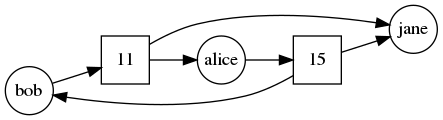
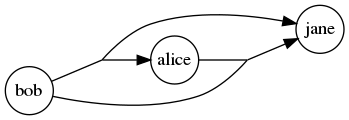
draw better hyperedges.

Changed region(s): [[0.2865, 0.025, 1.0, 0.9], [0.0, 0.1, 0.7163, 0.975], [0.3725, 0.275, 0.5731, 0.725]]

diff --git a/graphony/relation.py b/graphony/relation.py
@@ -1,5 +1,7 @@
 """Relation objects.
 """
+from functools import total_ordering
+
 from pygraphblas import Matrix, BOOL, INT64
 from pygraphblas.gviz import draw_graph
 
@@ -7,6 +9,7 @@ from .edge import Edge, Hedge
 from .node import Node
 
 
+@total_ordering
 class Relation:
     """
     Relation object.
@@ -74,6 +77,9 @@ class Relation:
         else:
             return draw_graph(self.A, **kwargs)
 
+    def __lt__(self, other):
+        return self.rid < other.rid
+
     def __iadd__(self, relation):
         if isinstance(relation, tuple):
             self.add(*relation)
@@ -97,13 +103,11 @@ class Relation:
             AT = self.A.T
             for eid in AT.rows:
                 sids = list(AT[eid].indices)
-                _dids = self.B[eid]
-                dids = list(_dids.indices)
-                weights = list(_dids.vals)
-                yield Hedge(self.graph, self.rid, sids, dids, weights, eid)
+                dids = self.B[eid]
+                yield Hedge(self, sids, list(dids.indices), list(dids.vals), eid)
         else:
             for sid, did, weight in self.A:
-                yield Edge(self.graph, self.rid, sid, did, weight)
+                yield Edge(self, sid, did, weight)
 
     def __len__(self):
         return self.B.nvals if self.incidence else self.A.nvals
@@ -128,7 +132,7 @@ class Relation:
                     dids = list(_dids.indices)
                     weights = list(_dids.vals)
                     sids = list(AT[eid].indices)
-                    yield Hedge(self.graph, self.rid, sids, dids, weights, eid)
+                    yield Hedge(self, sids, dids, weights, eid)
             elif isinstance(sid, slice):
                 BT = self.B.T
                 eids = BT[did]
@@ -136,7 +140,7 @@ class Relation:
                 for eid, _ in eids:
                     sids = list(AT[eid].indices)
                     dids = list(self.B[eid].indices)
-                    yield Hedge(self.graph, self.rid, sids, dids, weights, eid)
+                    yield Hedge(self, sids, dids, weights, eid)
             else:
                 BT = self.B.T
                 deids = BT[did]
@@ -147,14 +151,14 @@ class Relation:
                     _dids = self.B[eid]
                     dids = list(_dids.indices)
                     weights = list(_dids.vals)
-                    yield Hedge(self.graph, self.rid, sids, dids, weights, eid)
+                    yield Hedge(self, sids, dids, weights, eid)
 
         else:
             if isinstance(did, slice):
                 for did, weight in self.A[sid]:
-                    yield Edge(self.graph, self.rid, sid, did, weight)
+                    yield Edge(self, sid, did, weight)
             elif isinstance(sid, slice):
                 for sid, weight in self.A[:, did]:
-                    yield Edge(self.graph, self.rid, sid, did, weight)
+                    yield Edge(self, sid, did, weight)
             else:
-                yield Edge(self.graph, self.rid, sid, did, self.a[sid, did])
+                yield Edge(self, sid, did, self.a[sid, did])

diff --git a/graphony/tests/test_README.py b/graphony/tests/test_README.py
@@ -24,7 +24,7 @@ def _phm_setup_doctest_teardown(doctest_namespace, managenamespace):
     for k, v in additions.items():
         doctest_namespace[k] = v
     yield
-    # teardown code line 319.
+    # teardown code line 321.
     postgresql.teardown(pgdata)
 
     managenamespace(operation="clear")
@@ -89,7 +89,7 @@ def session_00005_line_158():
 def session_00006_line_171():
     r"""
     >>> G.add_relation('coworker', incidence=True)
-    >>> G.coworker += [('bob', ('jane', 'alice')), ('alice', ('bob', 'jane'))]
+    >>> G.coworker += [('bob', ('jane', 'alice')), (('alice', 'bob'), 'jane')]
     >>> G.coworker.draw(weights=False, filename='docs/imgs/G_coworker_1')
     <graphviz.dot.Digraph object at ...>
     """
@@ -112,7 +112,7 @@ def session_00008_line_195():
      friend(alice, jane),
      friend(alice, rick),
      coworker((bob), (alice, jane), (True, True)),
-     coworker((alice), (bob, jane), (True, True)),
+     coworker((bob, alice), (jane), (True, True)),
      distance(bob, alice, 422),
      distance(alice, jane, 42)]
     """
@@ -135,32 +135,34 @@ def session_00010_line_219():
     [friend(bob, alice),
      friend(bob, sal),
      coworker((bob), (alice, jane), (True, True)),
+     coworker((bob, alice), (jane), (True, True)),
      distance(bob, alice, 422)]
     """
 
 
-def session_00011_line_229():
+def session_00011_line_230():
     r"""
     >>> p(G(relation='coworker'))
     [coworker((bob), (alice, jane), (True, True)),
-     coworker((alice), (bob, jane), (True, True))]
+     coworker((bob, alice), (jane), (True, True))]
 
     """
 
 
-def session_00012_line_238():
+def session_00012_line_239():
     r"""
     >>> p(G(destination='jane'))
     [friend(alice, jane),
      coworker((bob), (alice, jane), (True, True)),
-     coworker((alice), (bob, jane), (True, True)),
+     coworker((bob, alice), (jane), (True, True)),
      distance(alice, jane, 42)]
     >>> p(G(source='bob', relation='coworker', destination='jane'))
-    [coworker((bob), (alice, jane), (True, True))]
+    [coworker((bob), (alice, jane), (True, True)), 
+     coworker((bob, alice), (jane), (True, True))]
     """
 
 
-def session_00013_line_252():
+def session_00013_line_254():
     r"""
     >>> G.friend
     <Adjacency friend BOOL:4>
@@ -170,7 +172,7 @@ def session_00013_line_252():
     """
 
 
-def session_00014_line_284():
+def session_00014_line_286():
     r"""
     >>> G.add_relation('karate')
     >>> G.karate += G.sql(
@@ -182,14 +184,14 @@ def session_00014_line_284():
     """
 
 
-def session_00015_line_298():
+def session_00015_line_300():
     r"""
     >>> len(G.karate)
     78
     """
 
 
-def session_00016_line_302():
+def session_00016_line_304():
     r"""
     >>> G
     <Graph [friend, coworker, distance, karate]: 88>

diff --git a/graphony/edge.py b/graphony/edge.py
@@ -7,8 +7,7 @@ from .node import Node
 class Edge(NamedTuple):
     """A simple Edge between one source and one destination node."""
 
-    graph: object
-    rid: int
+    relation: object
     sid: int
     did: int
     weight: object = True
@@ -22,19 +21,14 @@ class Edge(NamedTuple):
         return f"{self.relation.name}({self.source}, {self.destination}{weight})"
 
     @property
-    def relation(self):
-        """Return edge relation."""
-        return self.graph.relations[self.rid]
-
-    @property
     def source(self):
         """Return edge source."""
-        return Node(self.graph, self.sid)
+        return Node(self.relation.graph, self.sid)
 
     @property
     def destination(self):
         """Return edge destination"""
-        return Node(self.graph, self.did)
+        return Node(self.relation.graph, self.did)
 
 
 class Hedge(NamedTuple):
@@ -43,8 +37,7 @@ class Hedge(NamedTuple):
 
     """
 
-    graph: object
-    rid: int
+    relation: object
     sids: List[int]
     dids: List[int]
     weights: List[object] = None
@@ -57,16 +50,13 @@ class Hedge(NamedTuple):
         return f"{self.relation.name}(({sources}), ({destinations}), ({weights}))"
 
     @property
-    def relation(self):
-        """Return edge relation."""
-        return self.graph.relations[self.rid]
-
-    @property
     def sources(self):
         """Return edge sources."""
-        return [Node(self.graph, sid) for sid in self.sids]
+        g = self.relation.graph
+        return [Node(g, sid) for sid in self.sids]
 
     @property
     def destinations(self):
         """Return edge destinations."""
-        return [Node(self.graph, did) for did in self.dids]
+        g = self.relation.graph
+        return [Node(g, did) for did in self.dids]

diff --git a/README.md b/README.md
@@ -169,7 +169,7 @@ To create edges of a certain type, 4 elements can be provided:
 
 ```python3
 >>> G.add_relation('coworker', incidence=True)
->>> G.coworker += [('bob', ('jane', 'alice')), ('alice', ('bob', 'jane'))]
+>>> G.coworker += [('bob', ('jane', 'alice')), (('alice', 'bob'), 'jane')]
 >>> G.coworker.draw(weights=False, filename='docs/imgs/G_coworker_1')
 <graphviz.dot.Digraph object at ...>
 ```
@@ -198,7 +198,7 @@ acts as a wildcard to matches all values.
  friend(alice, jane),
  friend(alice, rick),
  coworker((bob), (alice, jane), (True, True)),
- coworker((alice), (bob, jane), (True, True)),
+ coworker((bob, alice), (jane), (True, True)),
  distance(bob, alice, 422),
  distance(alice, jane, 42)]
 ```
@@ -220,6 +220,7 @@ Only print relations where `bob` is the src:
 [friend(bob, alice),
  friend(bob, sal),
  coworker((bob), (alice, jane), (True, True)),
+ coworker((bob, alice), (jane), (True, True)),
  distance(bob, alice, 422)]
 ```
 
@@ -228,7 +229,7 @@ Only print relations where `coworker` is the relation:
 ```python3
 >>> p(G(relation='coworker'))
 [coworker((bob), (alice, jane), (True, True)),
- coworker((alice), (bob, jane), (True, True))]
+ coworker((bob, alice), (jane), (True, True))]
 
 ```
 
@@ -238,10 +239,11 @@ Only print relations where `jane` is the dest:
 >>> p(G(destination='jane'))
 [friend(alice, jane),
  coworker((bob), (alice, jane), (True, True)),
- coworker((alice), (bob, jane), (True, True)),
+ coworker((bob, alice), (jane), (True, True)),
  distance(alice, jane, 42)]
 >>> p(G(source='bob', relation='coworker', destination='jane'))
-[coworker((bob), (alice, jane), (True, True))]
+[coworker((bob), (alice, jane), (True, True)), 
+ coworker((bob, alice), (jane), (True, True))]
 ```
 
 Edges can be tested to see if they are contained in the Graph:
